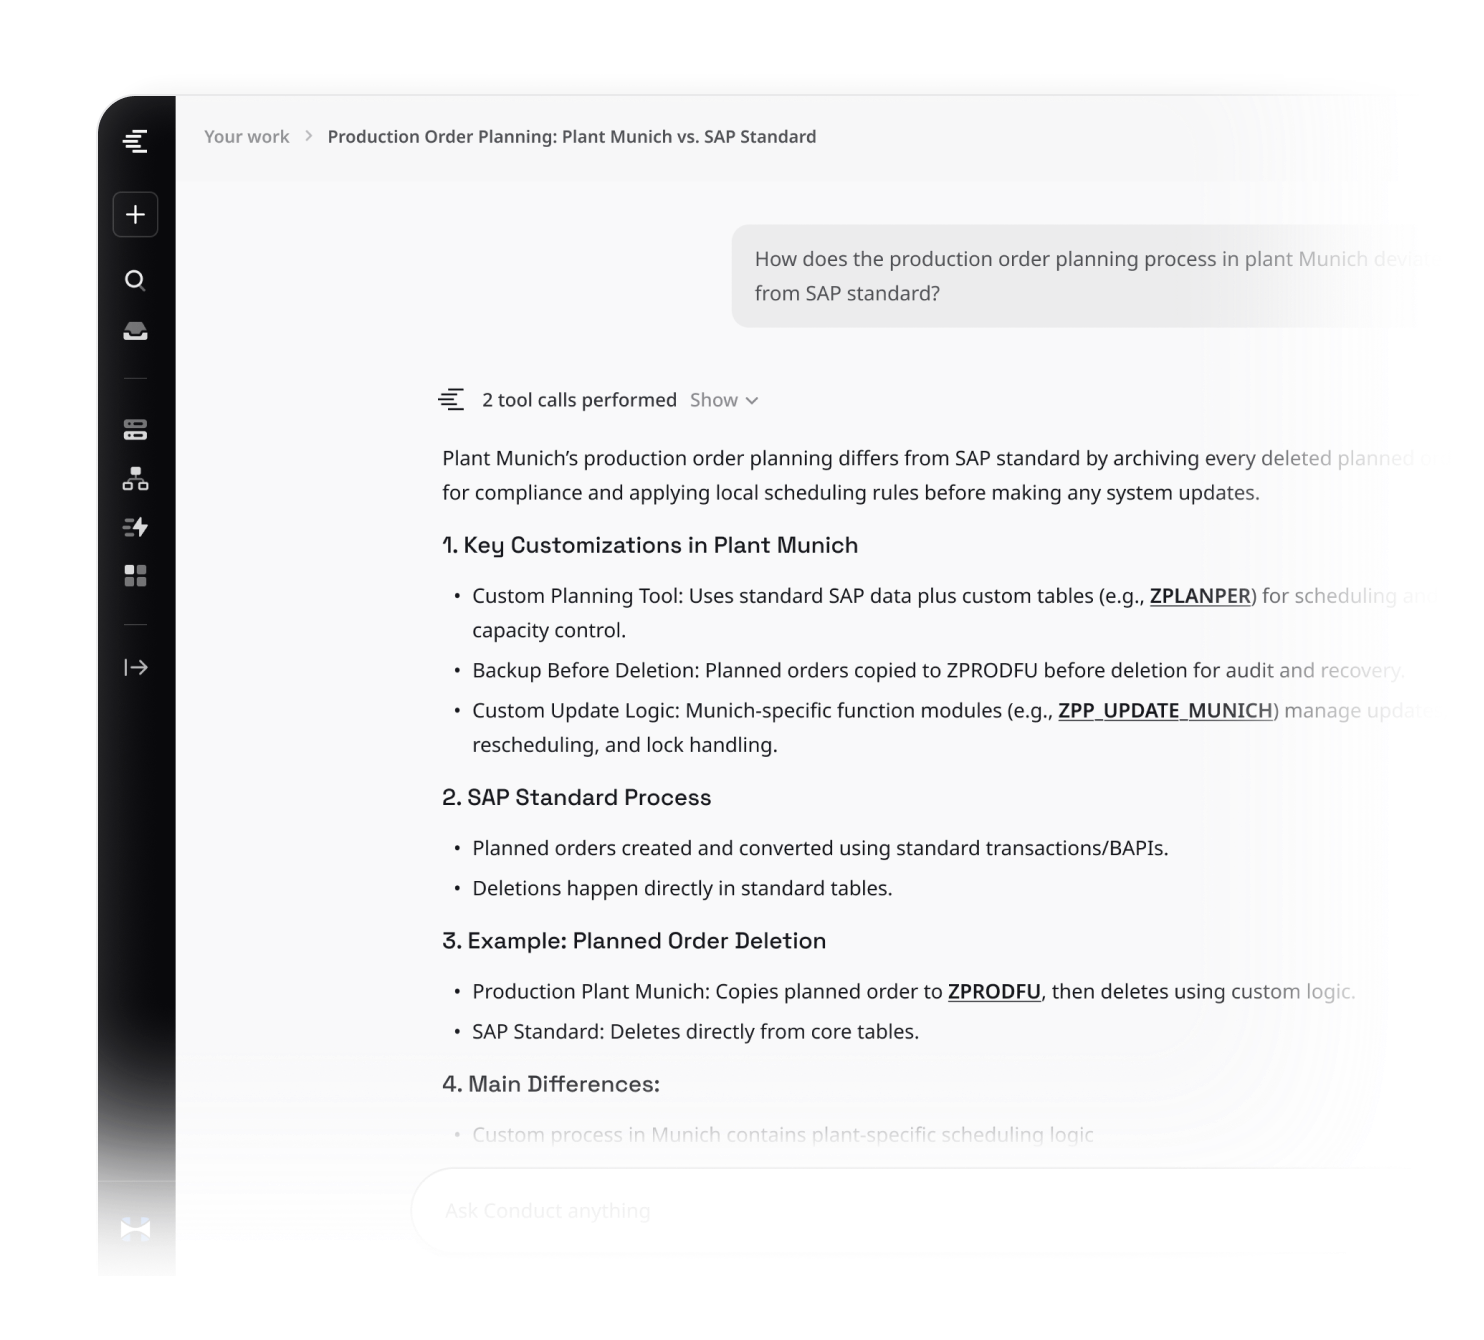
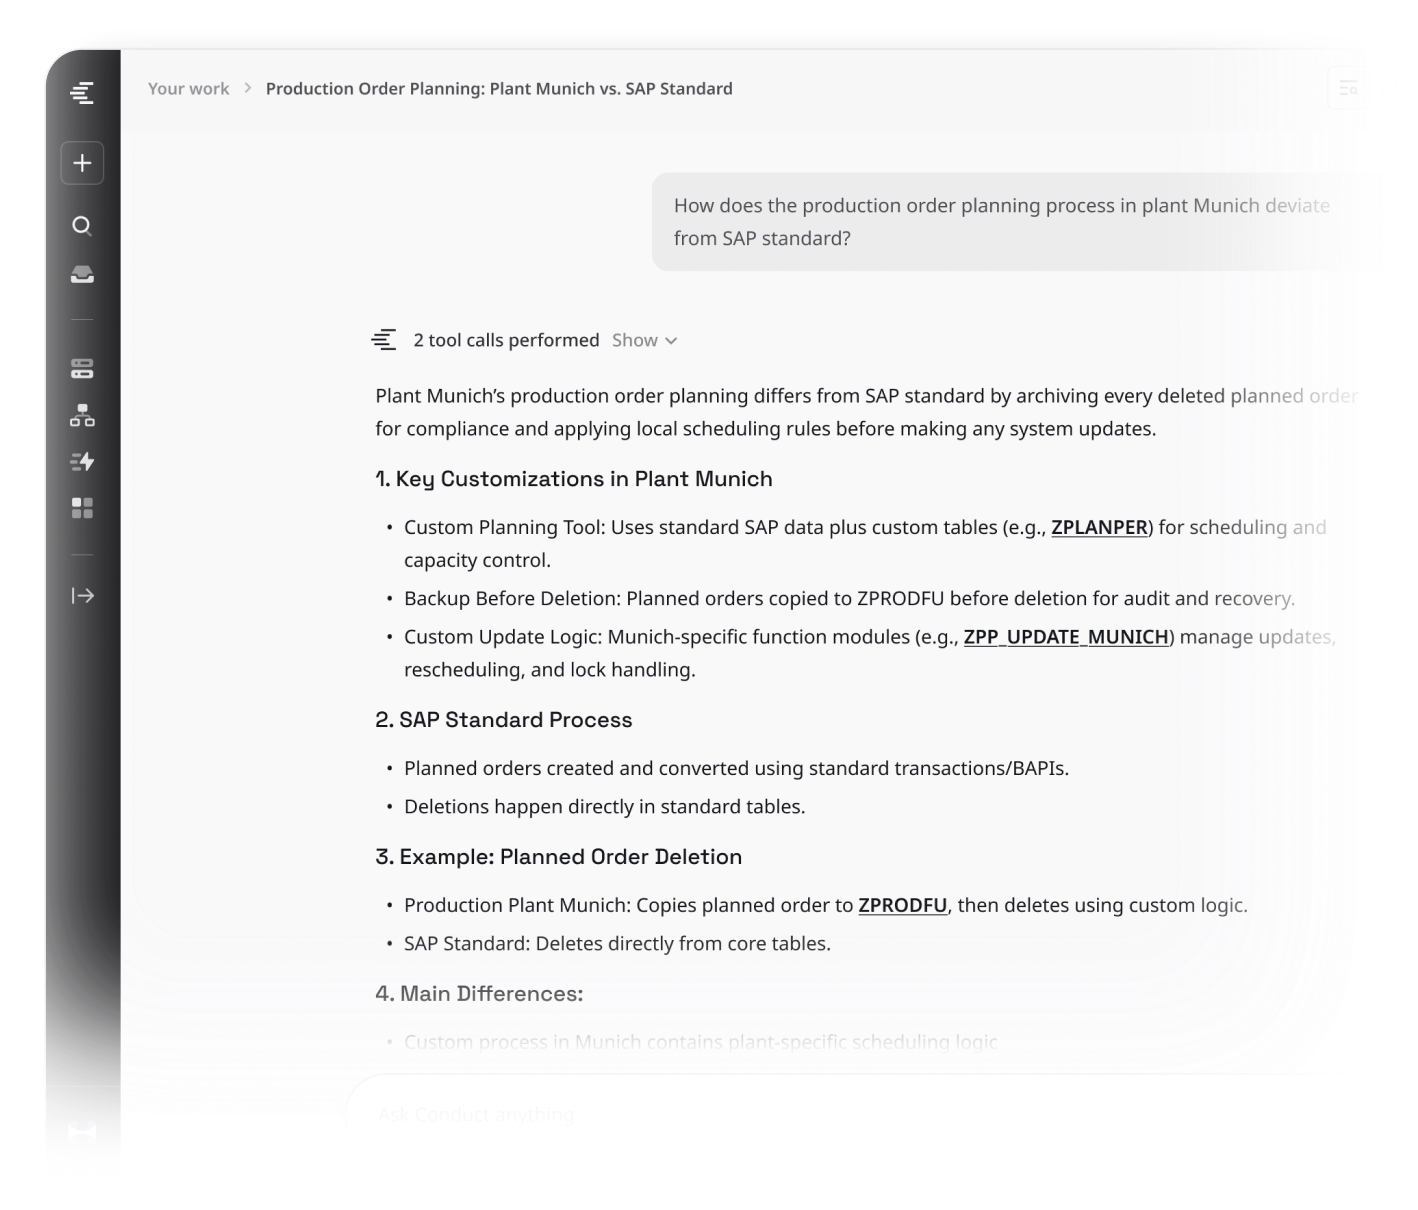
Add solution section to Conduct page with structured steps and updated visuals
- Introduced a new Solution component detailing the three-phase approach: Understand, Operate, and Transform.
- Added SOLUTION_STEPS array to define each phase with titles and descriptions for clarity.
- Updated the Conduct page layout to include the new Solution section, enhancing content organization.
- Included a new image to visually represent the solution approach.

These changes aim to improve user understanding of the process and enhance the overall experience on the Conduct page.

diff --git a/app/work/conduct/page.tsx b/app/work/conduct/page.tsx
@@ -166,6 +166,24 @@ const TRANSFORM: Story[] = [
   },
 ];
 
+const SOLUTION_STEPS = [
+  {
+    n: '01',
+    title: 'Understand',
+    body: 'Reading the actual custom code and configuration behind a system, so migrations, optimisations, and change requests started from fact, not guesswork.',
+  },
+  {
+    n: '02',
+    title: 'Operate',
+    body: 'Turning that understanding into the outputs teams needed, specs, analyses, and process flows, produced in context and edited in the same thread.',
+  },
+  {
+    n: '03',
+    title: 'Transform',
+    body: 'Running a change from end to end, plan, build, test, and deploy, with workflows that carry the work and its context across the team.',
+  },
+];
+
 const CALLOUTS = {
   understand: {
     statTop: 'More than',
@@ -300,6 +318,60 @@ function StatCallout({
   );
 }
 
+function Solution() {
+  return (
+    <section className="relative overflow-clip -mx-xl md:-mx-0 md:rounded-lg bg-[#F7F7F8] p-10 md:p-10 lg:p-14">
+      <div className="flex flex-col gap-8 lg:gap-14">
+        {/* Heading — spans the full width */}
+        <div className="flex flex-col gap-4 md:gap-4">
+          <h2 className="text-fg-emphasis gap-3 md:gap-0 font-serif font-medium text-xl md:text-2xl leading-[1.6] tracking-tighter max-w-176">
+            We set out to build a solution that accelerated an entire IT team.
+            <span className="text-fg-soft"> From asking questions to implementing changes.</span>
+          </h2>
+          <p className="max-w-[488px] md:text-lg text-fg-subtle">
+            Our objective was to develop a single AI layer for understanding, operating, and
+            transforming ERP systems.
+          </p>
+        </div>
+
+        {/* Steps — left column; the mockup sits to their right on desktop */}
+        <ol className="flex flex-col lg:max-w-[358px]">
+          {SOLUTION_STEPS.map((step, i) => (
+            <li key={step.n} className="relative flex gap-6 pb-10 last:pb-0">
+              {i < SOLUTION_STEPS.length - 1 && (
+                <span
+                  aria-hidden
+                  className="absolute left-5 top-12 bottom-2 w-px -translate-x-1/2 bg-border-subtle"
+                />
+              )}
+              <span className="relative z-[1] flex size-10 shrink-0 items-center justify-center rounded-full bg-fg-emphasis font-sans font-medium text-md tracking-wider text-white">
+                {step.n}
+              </span>
+              <div className="flex flex-col gap-2 pt-1.5">
+                <h3 className="font-serif font-semibold text-lg leading-snug tracking-tight text-fg-emphasis">
+                  {step.title}
+                </h3>
+                <p className="text-md text-fg-subtle">{step.body}</p>
+              </div>
+            </li>
+          ))}
+        </ol>
+      </div>
+
+      {/* Mockup — stacks below on mobile/tablet, bleeds into the bottom-right corner on desktop */}
+      <div className="mt-4 lg:absolute lg:right-4 lg:bottom-4 lg:mt-0 lg:w-[58%]">
+        <Image
+          src="/images/work/conduct/solution.png"
+          alt="Conduct's three-phase approach — understand, operate, and transform ERP systems"
+          width={1484}
+          height={1340}
+          className="h-auto w-full"
+        />
+      </div>
+    </section>
+  );
+}
+
 export default function ConductPage() {
   return (
     <Page hasCover>
@@ -335,6 +407,9 @@ export default function ConductPage() {
           problem="Decades of custom SAP code left enterprises running ERP systems nobody fully understood: before any migration, entire teams of analysts read that code by hand to map what it did. Each pass ran weeks and burned expensive specialist hours."
           solution="I designed the UX flows for an AI assistant that allowed IT teams to ask complex questions about those systems, then shaped the patterns for automating each step of their software development in Conduct."
         />
+
+        {/* Solution */}
+        <Solution />
 
         {/* Understand */}
         <ScrollStory kicker="Understand" items={UNDERSTAND} />